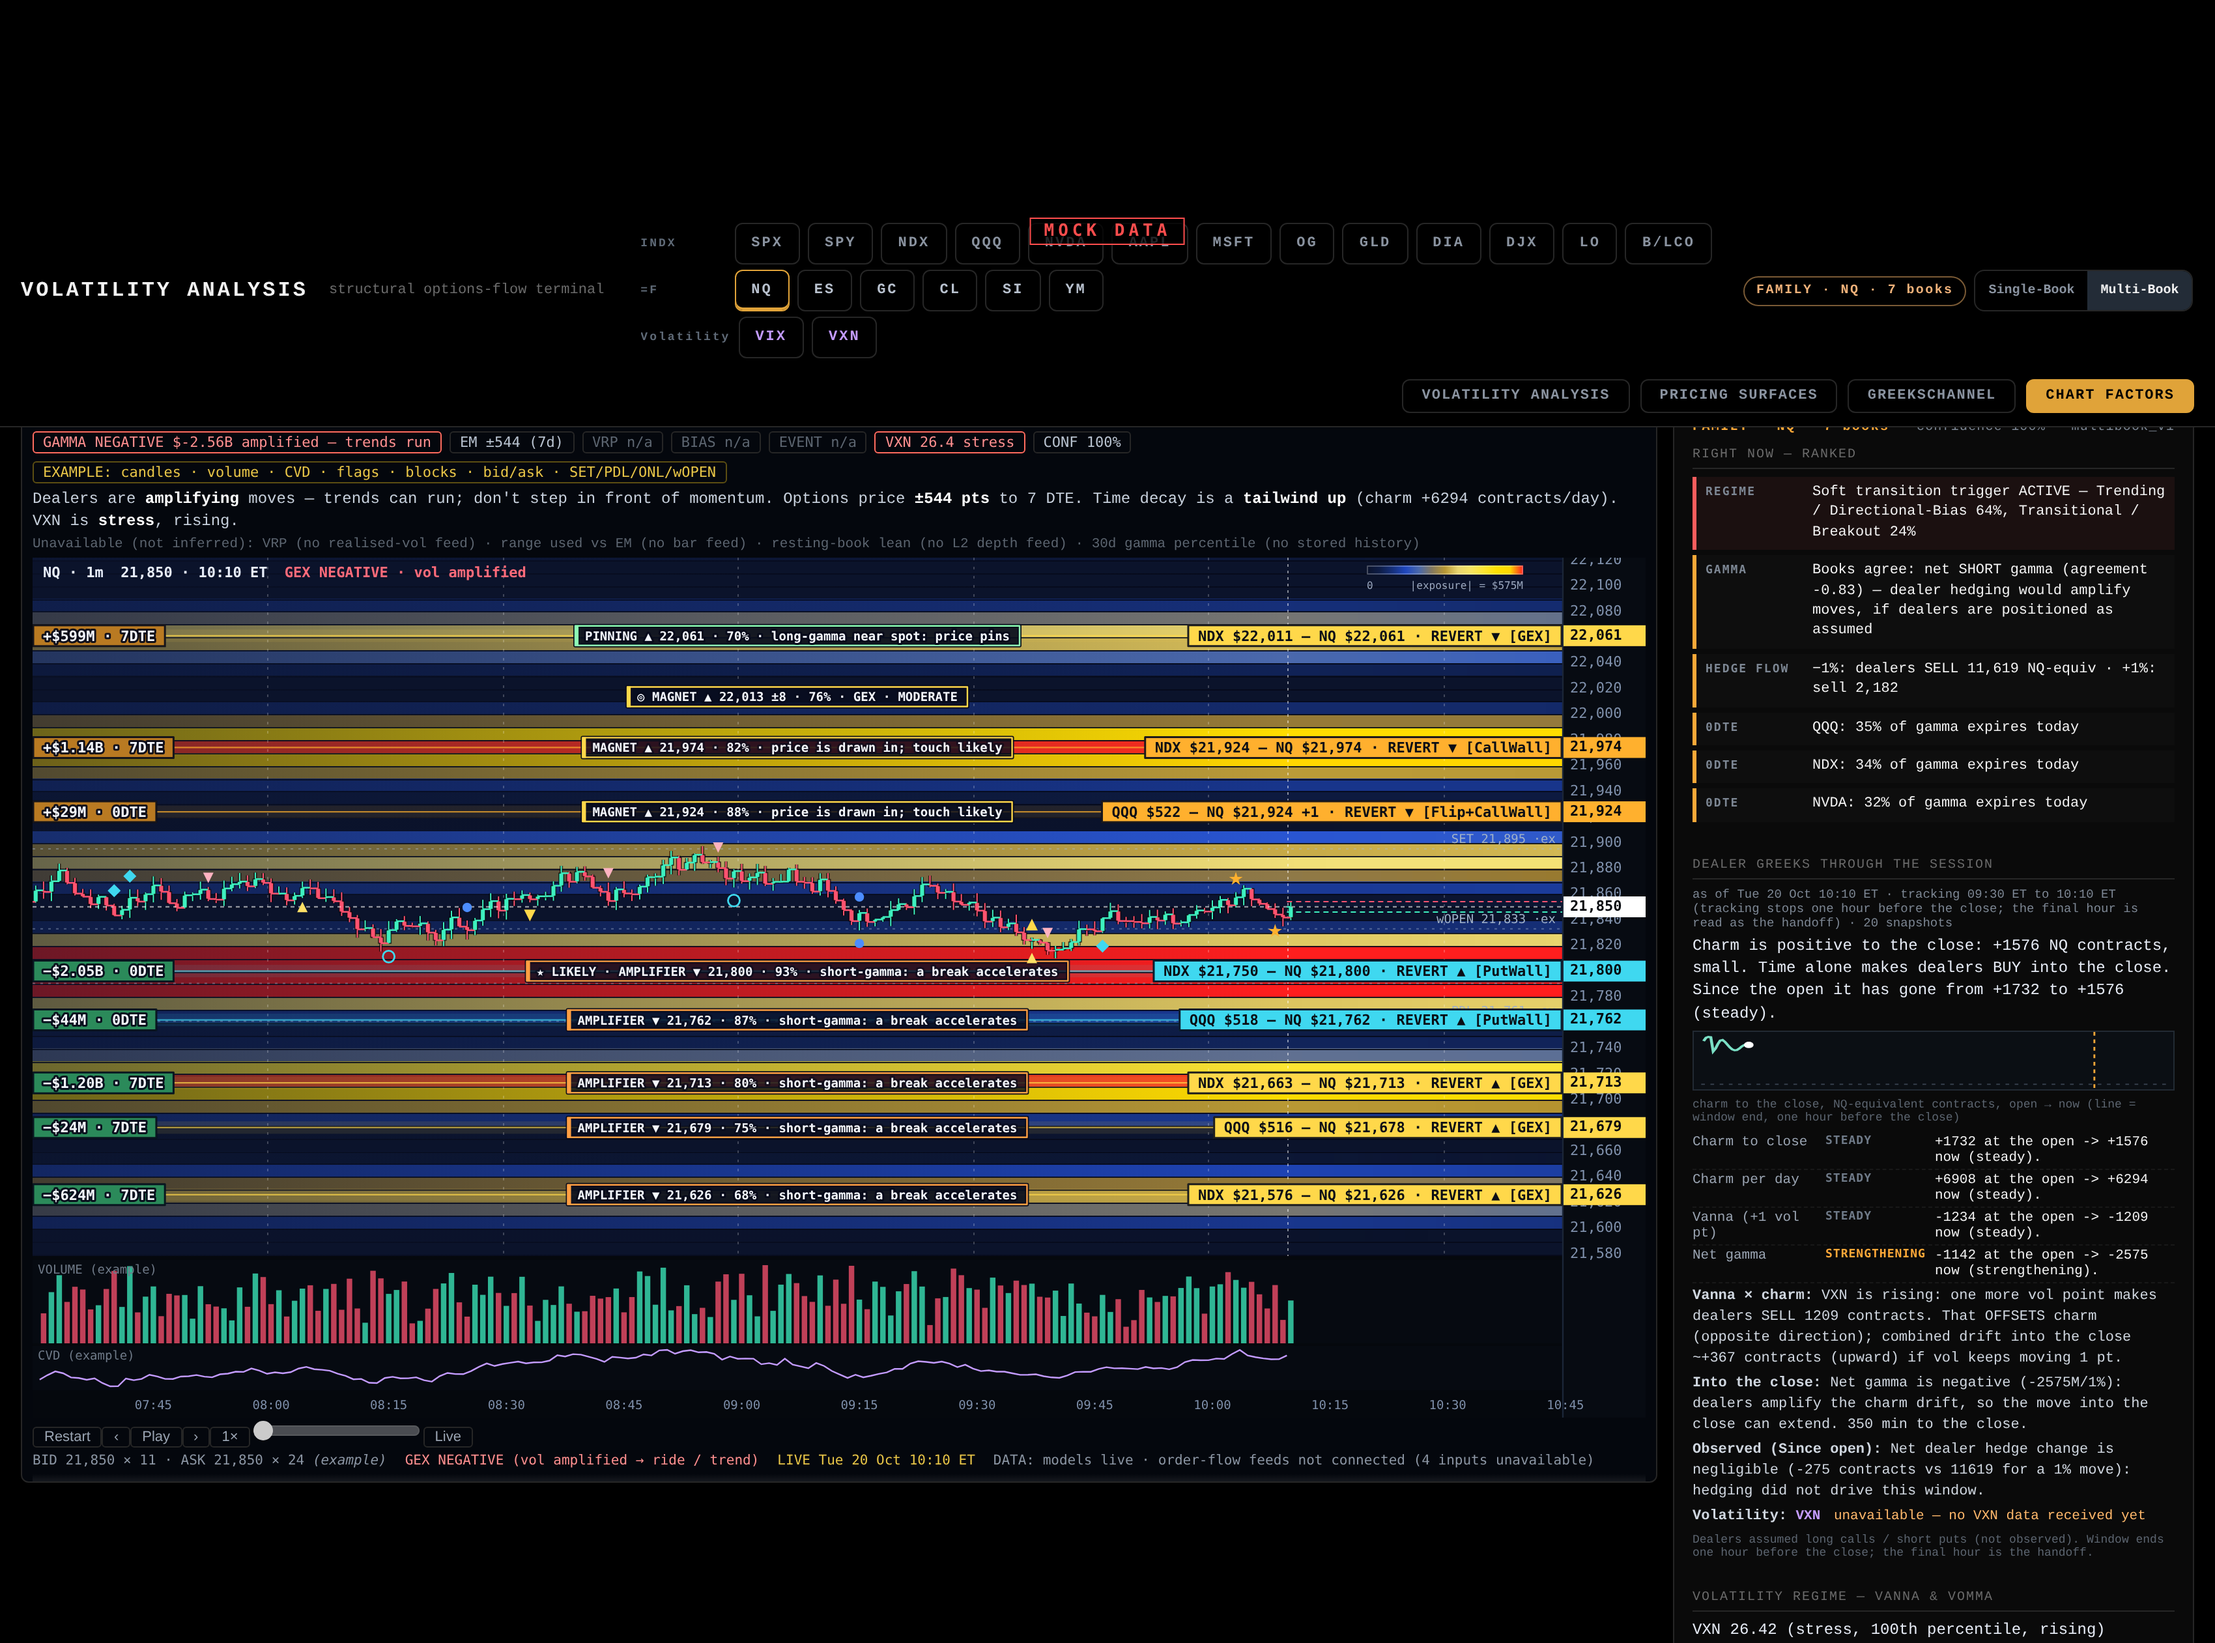
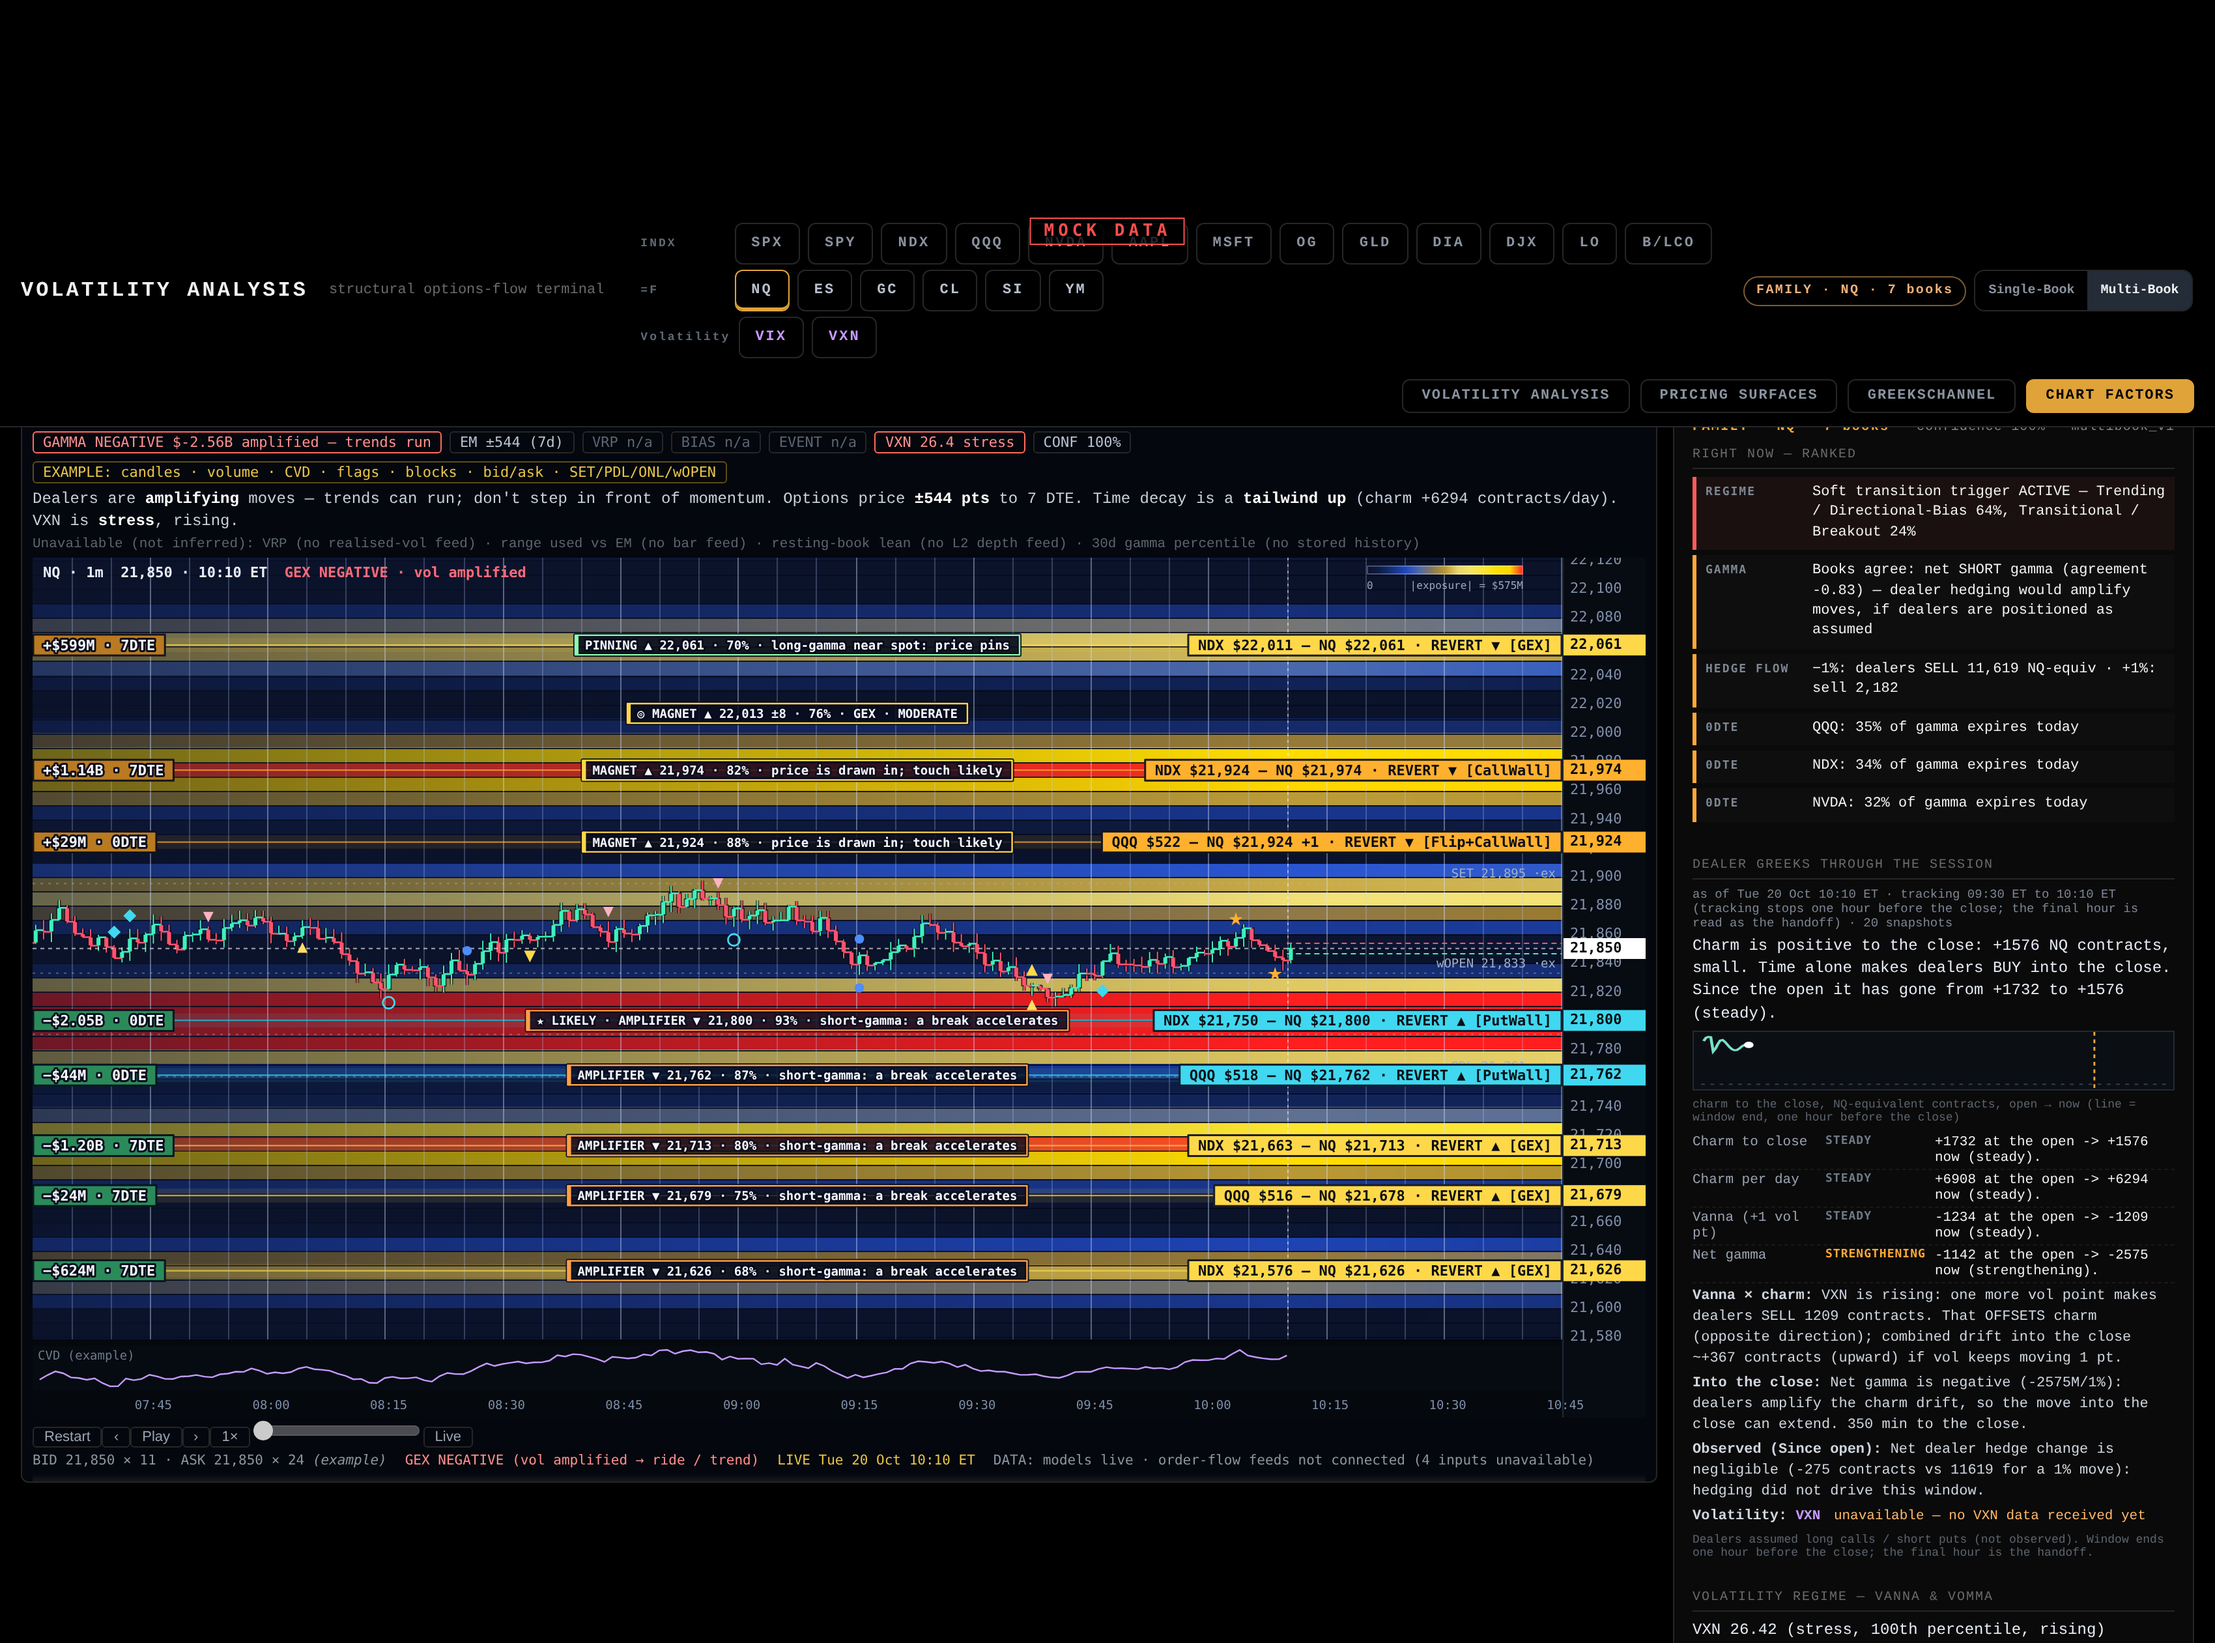
Chart: 5-minute vertical borders, remove volume panel; tests
Claude-Session: https://claude.ai/code/session_01TiRqSBW17WDKaoqqpfefar

Changed region(s): [[0.0, 0.3402, 0.7482, 0.8351]]

diff --git a/web/js/chartfactors/cf_chart.js b/web/js/chartfactors/cf_chart.js
@@ -117,7 +117,7 @@
     // auto-recentre with easing: the vertical window eases (critically damped feel, ~180 ms time constant) toward the target; heat, price line and markers share the one transform
     function view() { if (S.view) return Object.assign({}, S.view); const t = viewTarget(); if (!S.ve) S.ve = { c: (t.p0 + t.p1) / 2, h: (t.p1 - t.p0) / 2 }; return { t0: t.t0, t1: t.t1, p0: S.ve.c - S.ve.h, p1: S.ve.c + S.ve.h }; }
     function stepView(dt) { if (S.view || !S.chart || !S.ve || !S.hist.length) return; const t = viewTarget(), tc = (t.p0 + t.p1) / 2, th = (t.p1 - t.p0) / 2, a = 1 - Math.exp(-dt / 0.18), dc = tc - S.ve.c, dh = th - S.ve.h; if (Math.abs(dc) < 1e-6 * tc && Math.abs(dh) < 1e-6 * tc) return; S.ve.c += dc * a; S.ve.h += dh * a; S.dirty = true; }
-    function geom(w, h) { const v = view(), AW = 64, x0 = 0, x1 = w - AW, TH = 18, VH = Math.round(Math.min(64, h * 0.1)), CV = 34, y0 = 0, ph = h - TH - VH - CV - 8;
+    function geom(w, h) { const v = view(), AW = 64, x0 = 0, x1 = w - AW, TH = 18, VH = 0, CV = 34, y0 = 0, ph = h - TH - VH - CV - 8;
         return { w, h, x0, x1, y0, ph, v, AW, volY: y0 + ph + 3, VH, cvdY: y0 + ph + 5 + VH, CV, axY: h - TH, xOf: t => x0 + (t - v.t0) / (v.t1 - v.t0) * (x1 - x0), yOf: p => y0 + (v.p1 - p) / (v.p1 - v.p0) * ph, pOf: y => v.p1 - (y - y0) / ph * (v.p1 - v.p0), tOf: x => v.t0 + (x - x0) / (x1 - x0) * (v.t1 - v.t0) }; }
     function niceStep(raw) { const e = Math.pow(10, Math.floor(Math.log10(Math.max(raw, 1e-9)))), m = raw / e; return (m < 1.5 ? 1 : m < 3.5 ? 2 : m < 7.5 ? 5 : 10) * e; }
     function grid(v) { const ph = S.g ? S.g.ph : 600, rows = Math.max(8, Math.round(ph / (S.set.rowPx + 1))), tick = (S.chart && S.chart.axis.tick) || 0.25; let bucket = S.set.bucket > 0 ? S.set.bucket : 0;
@@ -201,7 +201,10 @@
             if (S.set.fade > 0 && nowX > g.x0) { const f = ctx.createLinearGradient(g.x0, 0, nowX, 0); f.addColorStop(0, 'rgba(11,19,43,' + Math.min(0.9, 1.2 * S.set.fade) + ')'); f.addColorStop(1, 'rgba(11,19,43,0)'); ctx.fillStyle = f; ctx.fillRect(g.x0, g.y0, Math.min(nowX, g.x1) - g.x0, g.ph); } }
         if (S.layers.liq && S.liq) { const okL = drawLiq(ctx, g, dpr, t); ctx.font = SM; ctx.fillStyle = '#9fb0cc'; ctx.textAlign = 'left'; ctx.fillText('LIVE DEPTH (EXAMPLE) ' + (S.liq.run ? (S.liq.ups / 1000).toFixed(1) + 'k upd/s ' : 'paused ') + (okL ? S.liq.path + ' ' + S.liq.ft.toFixed(1) + ' ms' : '') + ' | H ' + (S.liq.scale.H || 0).toFixed(0), g.x0 + 6, g.y0 + 10); }
         // time gridlines (dotted, wall-clock 30 min) + the now line at nowPct of the width (dotted)
-        ctx.setLineDash([2, 5]); ctx.strokeStyle = 'rgba(255,255,255,.22)'; ctx.lineWidth = 1; ctx.beginPath(); for (let m = Math.ceil(g.v.t0 / 30) * 30; m < g.v.t1; m += 30) { const x = Math.round(g.xOf(m)) + 0.5; ctx.moveTo(x, g.y0); ctx.lineTo(x, g.y0 + g.ph); } ctx.stroke();
+        // 5-minute vertical borders (clock time, independent of any timeframe): spacing simply follows the zoom; thinned to a multiple of 5 min only when the lines would be < 3 px apart
+        { const pxm = (g.x1 - g.x0) / (g.v.t1 - g.v.t0), stp = 5 * Math.max(1, Math.ceil(3 / (5 * pxm))); ctx.setLineDash([]); ctx.lineWidth = 1; const minor = new Path2D(), major = new Path2D();
+          for (let m = Math.ceil(g.v.t0 / stp) * stp; m < g.v.t1; m += stp) { const x = Math.round(g.xOf(m)) + 0.5, P = (m % 15 === 0 || stp > 5) ? major : minor; P.moveTo(x, g.y0); P.lineTo(x, g.y0 + g.ph); }
+          ctx.strokeStyle = 'rgba(190,210,255,.24)'; ctx.stroke(minor); ctx.strokeStyle = 'rgba(210,225,255,.40)'; ctx.stroke(major); }
         ctx.setLineDash([2, 3]); ctx.strokeStyle = 'rgba(255,255,255,.5)'; ctx.beginPath(); ctx.moveTo(Math.round(nowX) + 0.5, g.y0); ctx.lineTo(Math.round(nowX) + 0.5, g.y0 + g.ph); ctx.stroke(); ctx.setLineDash([]);
         // reference levels + expected move
         const AX = g.x1; if (S.layers.ref) { ctx.font = SM; ctx.lineWidth = 1; ctx.textAlign = 'right'; ctx.setLineDash([2, 4]);
@@ -256,10 +259,9 @@
             tip.innerHTML = '<b>' + fmtP(p, tick) + '</b> &middot; ' + hhmm(tm) + ' ET' + (cost != null ? '<br>cost to move 1%: <b>' + money(cost) + '</b>' : '') + '<br>row ' + esc(S.metric) + ': ' + (S.metric === 'ptouch' ? Math.round(rowv[ri] * 100) + '%' : rowv[ri].toExponential(2)) + (ns ? '<br>nearest strike ' + fmtP(ns.price, tick) + ' (' + esc(ns.book) + ') ' + (ns.v < 0 ? '−' : '+') + Math.abs(ns.v).toExponential(2) : '') + lv.map(l => '<br>' + esc(l.tags.join('+')) + ' ' + fmtP(l.price, tick) + ' (' + (l.price - p >= 0 ? '+' : '') + fmtP(l.price - p, tick) + ')').join('') + (bar ? '<br><i>example bar</i> O ' + nf(bar.o) + ' H ' + nf(bar.h) + ' L ' + nf(bar.l) + ' C ' + nf(bar.c) : '');
             const nl = c.levels.reduce((a, l) => !a || Math.abs(g.yOf(l.price) - m.y) < Math.abs(g.yOf(a.price) - m.y) ? l : a, null), nr = nl && Math.abs(g.yOf(nl.price) - m.y) <= 7 ? nl.price : null; if (nr !== S.hlChart) { S.hlChart = nr; setHl(nr); } } else tip.hidden = true;
         // volume + CVD (example)
-        const vm = Math.max(...M.bars.filter(b => b.t <= nm && b.t >= g.v.t0).map(b => b.v), 1); ctx.fillStyle = '#060a11'; ctx.fillRect(g.x0, g.volY, g.x1 - g.x0, g.VH); ctx.fillRect(g.x0, g.cvdY, g.x1 - g.x0, g.CV);
-        for (const b of M.bars) { if (b.t > nm) break; const x = g.xOf(b.t); if (x < g.x0 || x > g.x1) continue; const h = b.v / vm * (g.VH - 4); ctx.fillStyle = b.c >= b.o ? 'rgba(62,240,192,.75)' : 'rgba(255,83,112,.75)'; ctx.fillRect(x + cwid * 0.15, g.volY + g.VH - h, cwid * 0.7, h); }
+        ctx.fillStyle = '#060a11'; ctx.fillRect(g.x0, g.cvdY, g.x1 - g.x0, g.CV);
         const vis = M.bars.map((b, i) => [b, M.cvd[i]]).filter(q => q[0].t <= nm && q[0].t >= g.v.t0), cmn = Math.min(...vis.map(q => q[1]), 0), cmx = Math.max(...vis.map(q => q[1]), 1), cy = v => g.cvdY + 3 + (cmx - v) / ((cmx - cmn) || 1) * (g.CV - 6); ctx.strokeStyle = '#c39bff'; ctx.lineWidth = 1.2; ctx.beginPath(); vis.forEach((q, i) => { const x = g.xOf(q[0].t), y = cy(q[1]); i ? ctx.lineTo(x, y) : ctx.moveTo(x, y); }); ctx.stroke();
-        ctx.font = SM; ctx.fillStyle = '#6f7a88'; ctx.textAlign = 'left'; ctx.fillText('VOLUME (example)', g.x0 + 4, g.volY + 8); ctx.fillText('CVD (example)', g.x0 + 4, g.cvdY + 8);
+        ctx.font = SM; ctx.fillStyle = '#6f7a88'; ctx.textAlign = 'left'; ctx.fillText('CVD (example)', g.x0 + 4, g.cvdY + 8);
         // price axis (pinned right): ticks every nice step, flags for every pivot + live price (flags above ticks)
         ctx.fillStyle = '#070b12'; ctx.fillRect(g.x1, 0, g.AW, H); ctx.strokeStyle = '#1b2638'; ctx.beginPath(); ctx.moveTo(g.x1 + 0.5, 0); ctx.lineTo(g.x1 + 0.5, H); ctx.stroke(); ctx.font = FN; ctx.fillStyle = '#7f90ab'; ctx.textAlign = 'left'; const ts = niceStep((g.v.p1 - g.v.p0) / 22); for (let p = Math.ceil(g.v.p0 / ts) * ts; p <= g.v.p1; p += ts) ctx.fillText(nf(p), g.x1 + 6, g.yOf(p));
         const flag = (p, bg) => { const y = clamp(g.yOf(p), g.y0 + 8, g.y0 + g.ph - 8); ctx.fillStyle = bg; ctx.fillRect(g.x1 + 1, y - 8, g.AW - 1, 16); ctx.fillStyle = '#05080d'; ctx.font = 'bold ' + FN; ctx.fillText(nf(p), g.x1 + 6, y); };

diff --git a/tests/ui/verify_forward.py b/tests/ui/verify_forward.py
@@ -33,5 +33,9 @@ with sync_playwright() as p:
     for h in d["history"][12:14]: pg.evaluate("(j)=>window.onChartFactors(j)", json.dumps(h) if not isinstance(h, str) else h)
     pg.wait_for_timeout(400)
     f1 = pg.evaluate("()=>{const S=VT_CF.state;S.texKey=S.rawKey='';VT_CF.draw();const cv=VT_CF.cpuTex(),x=cv.getContext('2d').getImageData(0,0,cv.width,cv.height).data;let h=0;for(let i=0;i<x.length;i+=4)h=(h*31+x[i]+x[i+1]*3+x[i+2]*7)>>>0;return h}")
+    gx = pg.evaluate("""()=>{const S=VT_CF.state;S.set.renderer='canvas2d';VT_CF.draw();const g=VT_CF.geom(),cv=document.getElementById('vt-cf-cv'),dpr=window.devicePixelRatio||1,x=cv.getContext('2d'),y=Math.floor((g.y0+g.ph-4)*dpr);const row=x.getImageData(0,y,cv.width,1).data,px=m=>Math.floor((Math.round(g.xOf(m))+0.5)*dpr)*4,hits=[],bg=[];
+        for(let m=Math.ceil(g.v.t0/5)*5;m<g.v.t1-5;m+=5){const a=px(m),c=px(m+2.5);hits.push(row[a]+row[a+1]+row[a+2]);bg.push(row[c]+row[c+1]+row[c+2]);}
+        return {VH:g.VH,n:hits.length,bright:hits.filter((v,i)=>v>bg[i]).length}}""")
+    print("grid", gx); chk(gx["VH"] == 0, "volume panel removed"); chk(gx["n"] >= 10 and gx["bright"] >= gx["n"] * 0.7, f"5-minute vertical borders drawn {gx}")
     chk(f0 != f1, "forward projection re-computed when a new epoch arrives"); chk(not errs, f"console errors {errs[:2]}"); b.close()
 print("FAILURES:", F if F else "none"); sys.exit(1 if F else 0)

diff --git a/README.md b/README.md
@@ -52,6 +52,7 @@ Single-file build flags used in development: `g++ -std=c++23 -UNDEBUG -I include
 - Forward projection: the zone right of "now" is not a flat copy. C++ emits per-strike factors (`field.metrics[].strikes[].f`, 17 steps of 15 min): dealer gamma re-scaled to the remaining time (BS gamma, near-spot strikes build into the close, wings fade) and the touch chance re-evaluated over the shrinking horizon. The heatmap multiplies the live value by the factor at the column's distance from now, so exposure and positioning re-project with every epoch; `forward zone` setting: project (default) / flat. Applies to Structural and Net GEX; other metrics stay flat.
 - Renderers: WebGL2 (`web/js/chartfactors/cf_gl.js`; raw values in an R32F texture, colour ramp as a 1D LUT, scale/gamma/bands as uniforms, so re-scaling never re-uploads data) with an identical canvas2D path. `renderer` setting: auto (GL on real GPUs, CPU on software rasterisers), webgl, canvas2d; context loss falls back automatically.
 - Live depth layer ("Live depth (example)" + Depth button): Bookmap-style resting-liquidity matrix at prices (`cf_stream.js`: typed-array ring, per-column max aggregation, carry-forward, gap timeout, late-update merge, adaptive p99.5 scale, dirty-slot GPU uploads). Runs on a mock feed (5k-500k updates/s) until the order-flow API is attached; real feed calls `Ring.ingest(ts, px, sz, n)`. Can be shown alone, or blended with the dealer-flow heatmap.
+- Chart: 5-minute vertical borders at clock multiples of 5 min (every 15 min brighter), spacing follows zoom/scroll, no timeframe; volume panel removed (CVD kept).
 - Replay GIF: `docs/media/heatmap_replay.gif` (regenerate with `python3 tests/ui/make_heatmap_gif.py`).
 - Details and gaps: `docs/heatmap-spec-audit.md`, `docs/chart-factors-*.md`.
 
